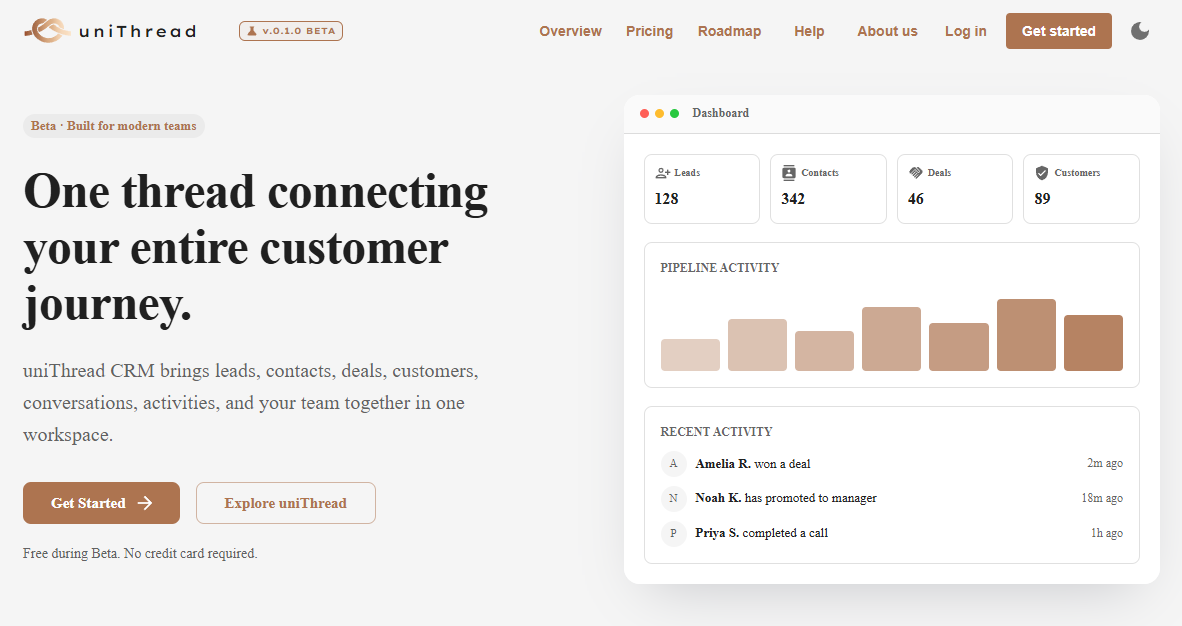
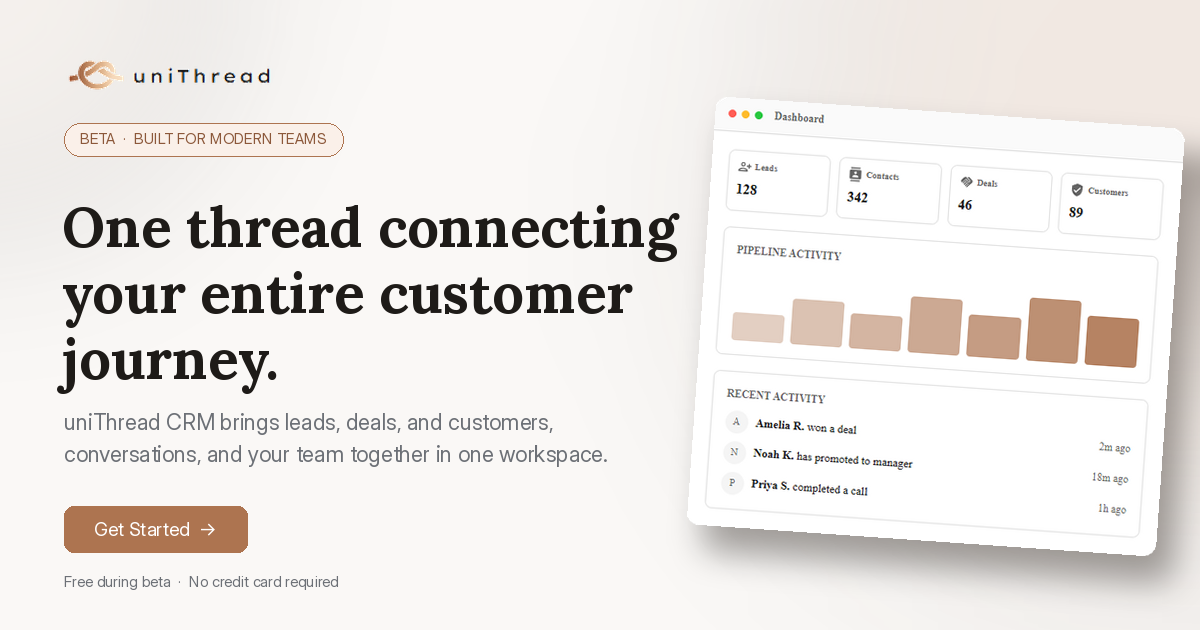
chore: improve SEO and social metadata

diff --git a/index.html b/index.html
@@ -3,6 +3,7 @@
   <head>
     <meta charset="UTF-8" />
     <link rel="icon" type="image/png" href="/unithread.png" />
+    <link rel="apple-touch-icon" href="/unithread.png" />
     <meta name="viewport" content="width=device-width, initial-scale=1.0" />
 
     <title>uniThread CRM | Connects with people</title>
@@ -12,19 +13,15 @@
       content="uniThread CRM connects sales teams with the people they serve. Manage contacts, track leads, close deals, get AI insights, and collaborate in real time."
     />
 
-    <meta
-      name="keywords"
-      content="CRM, sales CRM, customer relationship management, sales management, contacts, leads, deals, AI CRM, team CRM, sales pipeline, free CRM"
-    />
-
     <meta name="author" content="uniThread CRM" />
     <meta name="robots" content="index, follow" />
-    <meta name="theme-color" content="#0B0F1A" />
+    <meta name="theme-color" content="#F5F5F5" media="(prefers-color-scheme: light)" />
+    <meta name="theme-color" content="#0B0F1A" media="(prefers-color-scheme: dark)" />
 
     <link rel="canonical" href="https://unithreadcrm.com/" />
 
     <meta property="og:type" content="website" />
-    <meta property="og:title" content="uniThread CRM | Sales CRM for Leads, Deals & Customer Management" />
+    <meta property="og:title" content="uniThread CRM | Connects with people" />
     <meta
       property="og:description"
       content="uniThread CRM connects sales teams with the people they serve. Manage contacts, track leads, close deals, get AI insights, and collaborate in real time."
@@ -32,6 +29,7 @@
     <meta property="og:url" content="https://unithreadcrm.com/" />
     <meta property="og:site_name" content="uniThread CRM" />
     <meta property="og:image" content="https://unithreadcrm.com/og-image.png" />
+    <meta property="og:image:type" content="image/png" />
     <meta property="og:image:width" content="1200" />
     <meta property="og:image:height" content="630" />
     <meta property="og:image:alt" content="uniThread CRM dashboard — leads, deals, and contacts in one place" />
